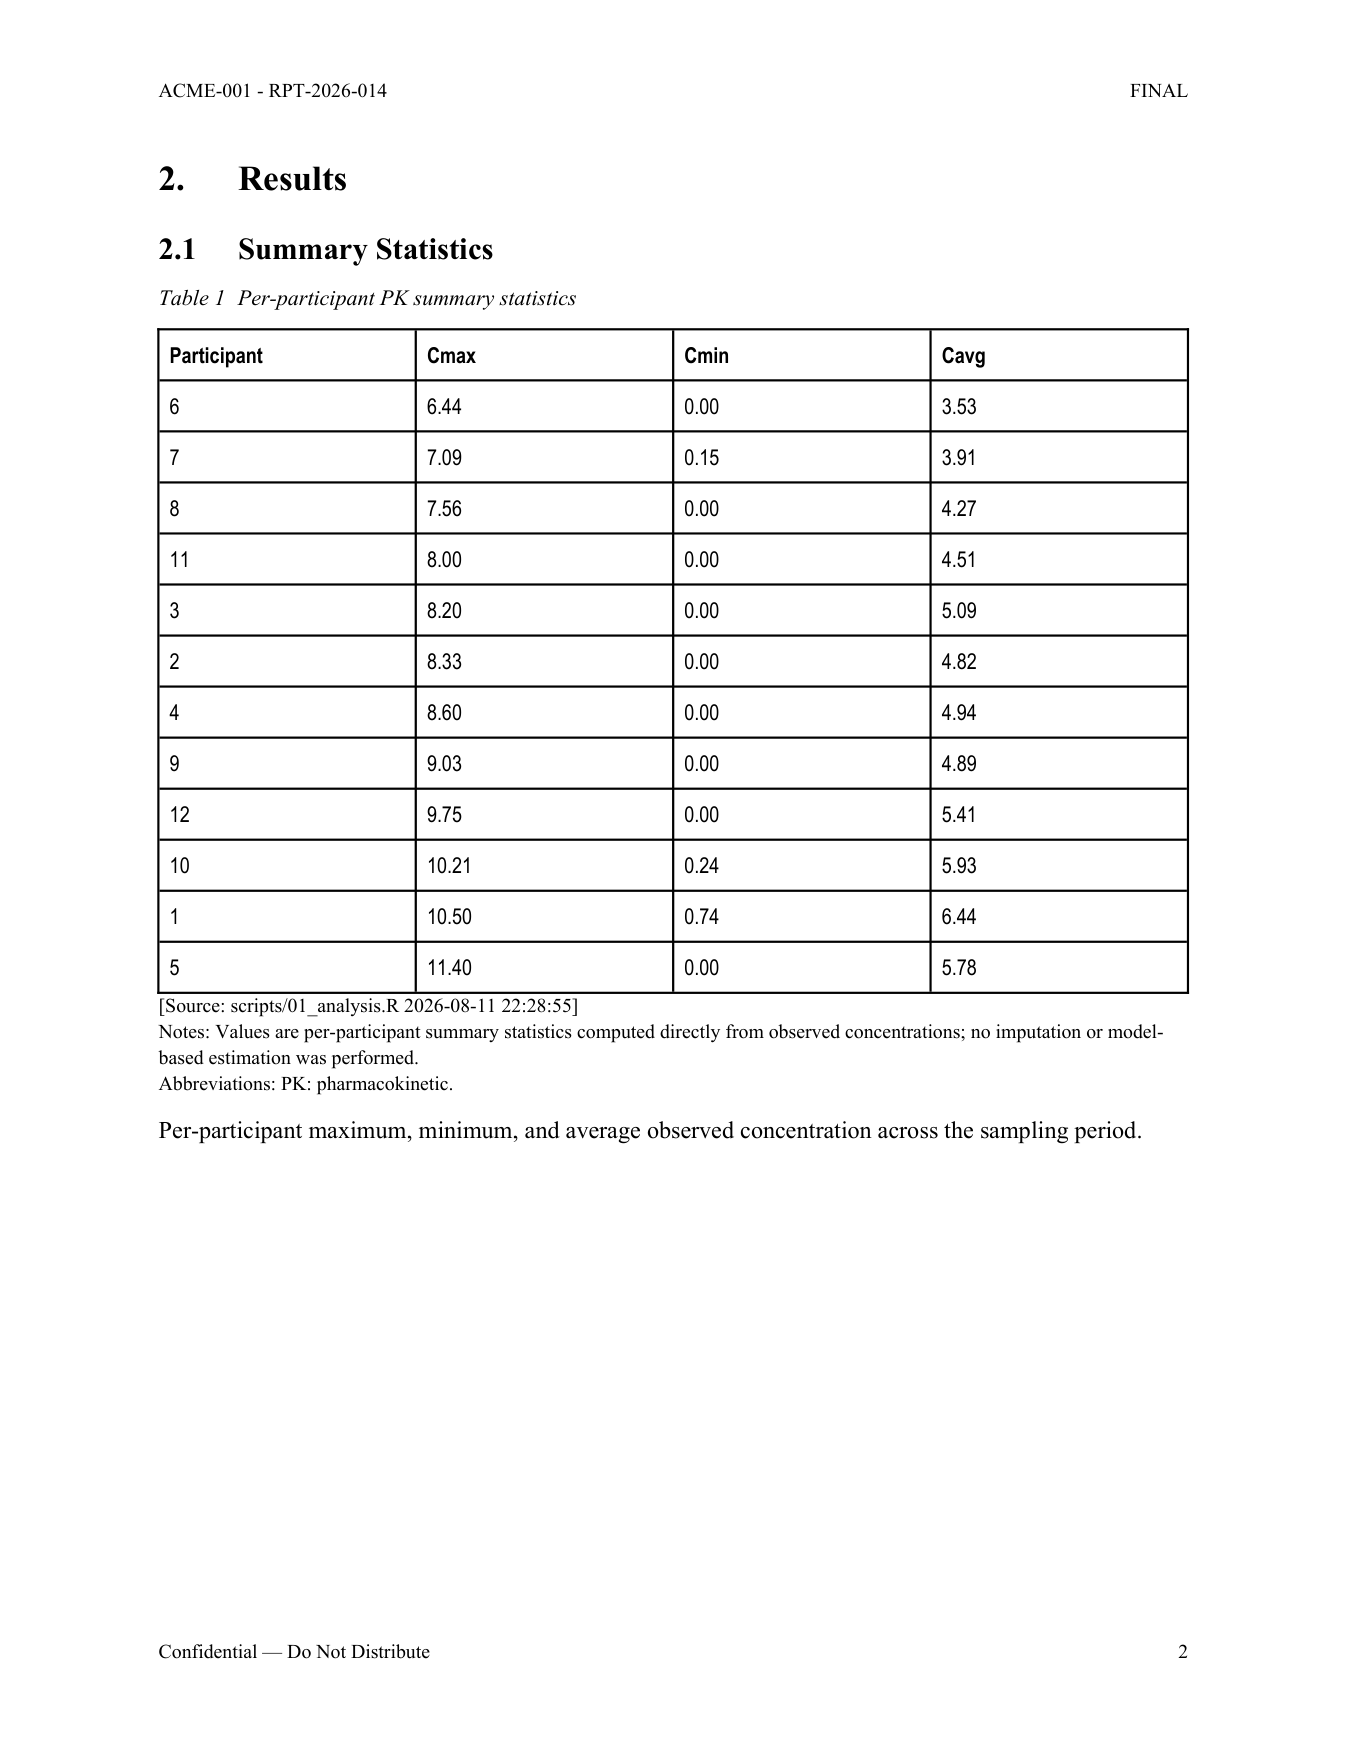
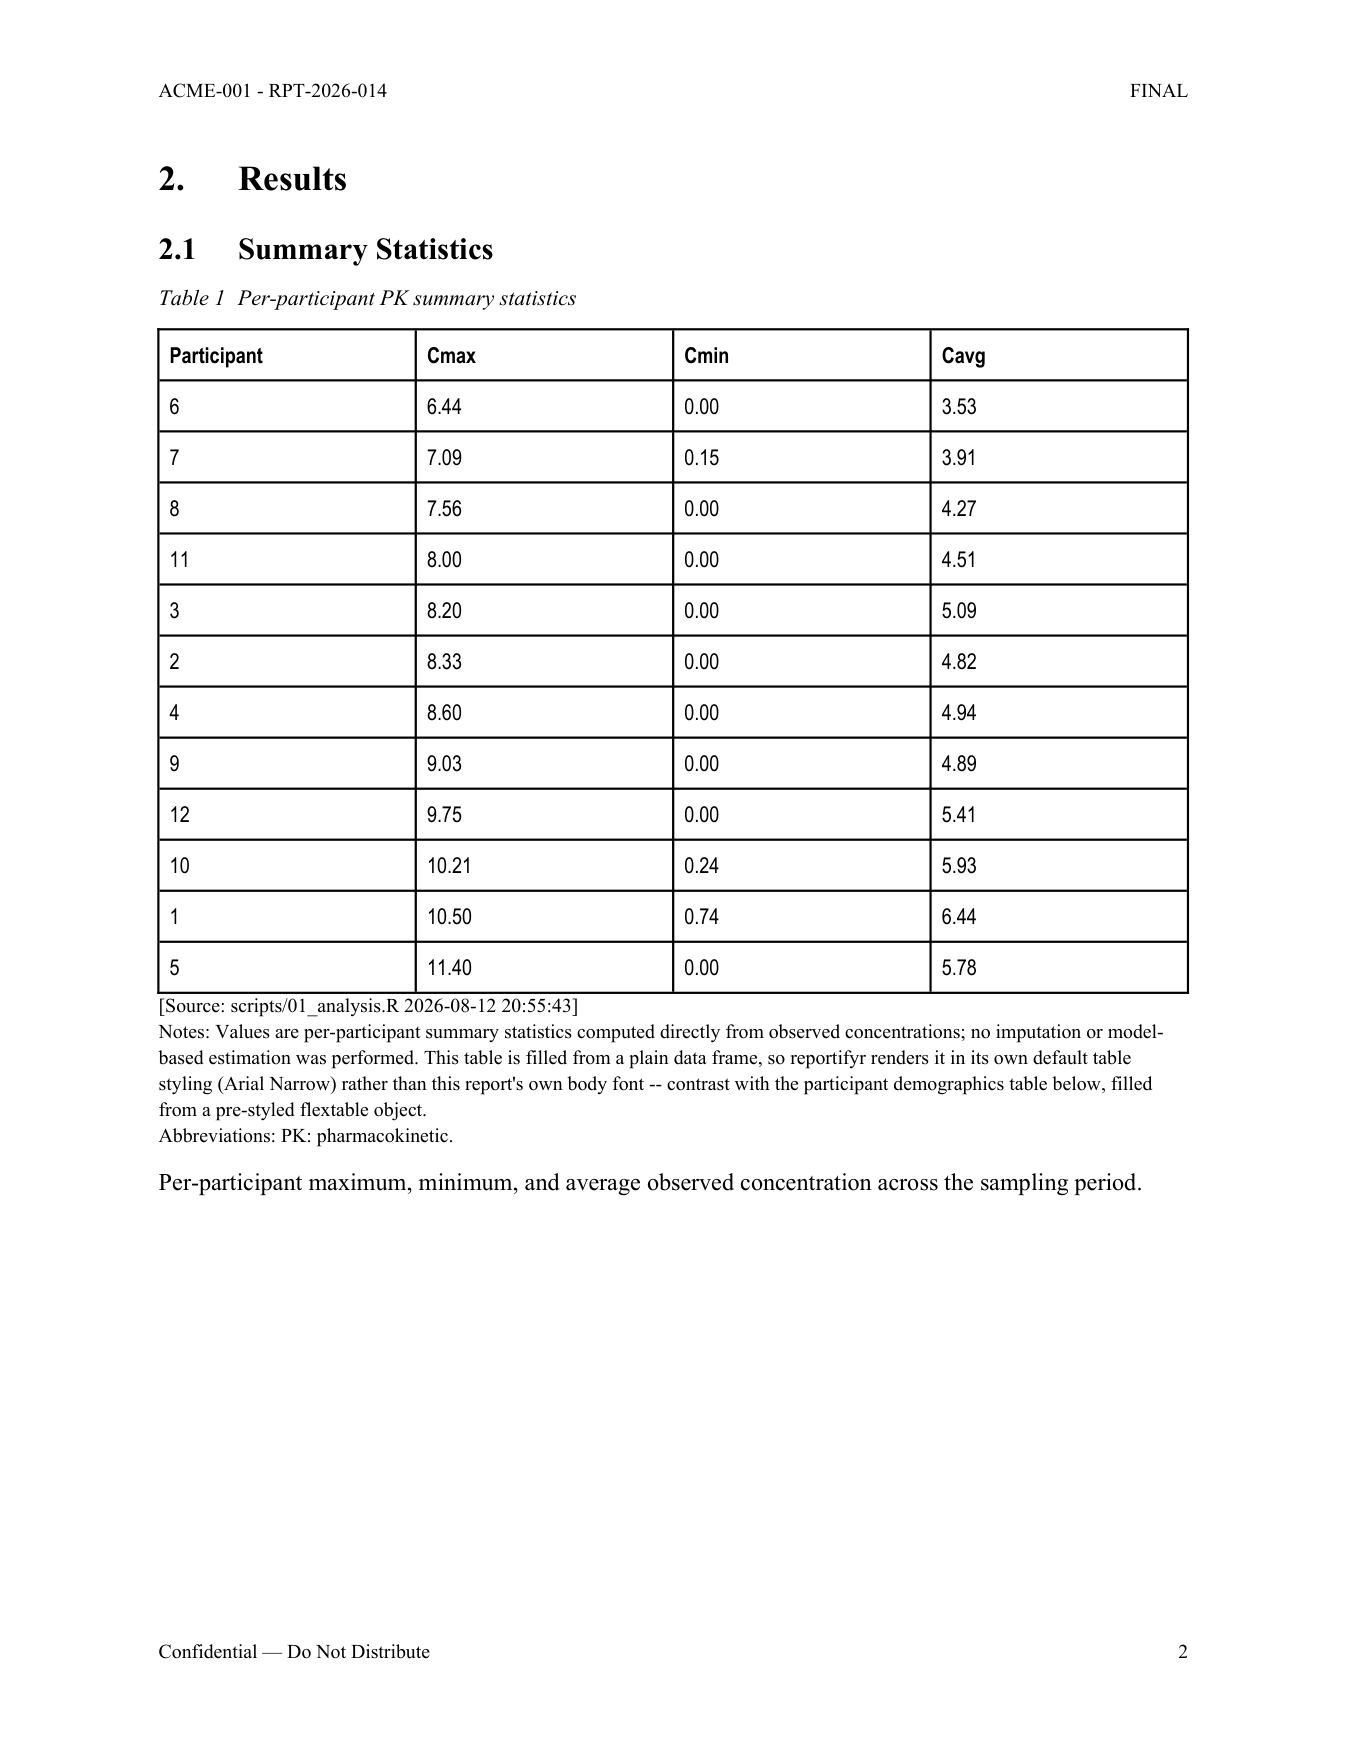
Demo: add a flextable .rds table illustrating reportifyr's table-styling split
pk-summary.csv (a plain data frame) always gets reportifyr's own
hardcoded Arial Narrow table formatting, regardless of the reference-
doc's actual body font; a pre-built, hand-styled flextable object saved
as .rds is instead inserted as-is. The new participant-demographics.rds
table demonstrates the latter, styled to match this report's Times New
Roman -- both tables' rendered Notes footnotes now explain the contrast
directly, and smoke_test.py asserts on the two tables' actual body
fonts. Regenerated docs/ screenshots and GIFs affected by the new
report.qmd section (appendix page shifted, body page re-captured).

Changed region(s): [[0.1247, 0.5886, 0.8419, 0.6816], [0.3742, 0.5577, 0.4053, 0.5886]]

diff --git a/examples/demo-report/smoke_test.py b/examples/demo-report/smoke_test.py
@@ -135,7 +135,7 @@ def main() -> int:
     )
 
     checks.append(("no leftover {rpfy}: magic strings", "{rpfy}:" not in joined))
-    checks.append(("at least 6 tables present (title info + signatures + PK summary + abbreviations; synopsis is plain paragraphs, not a table)", len(document.tables) >= 6))
+    checks.append(("at least 7 tables present (title info + signatures + PK summary + demographics + abbreviations; synopsis is plain paragraphs, not a table)", len(document.tables) >= 7))
 
     # build_template.py's reference-doc sets <w:updateFields w:val="true"/>
     # in settings.xml so Word auto-recalculates every field (TOC, SEQ, REF,
@@ -257,6 +257,48 @@ def main() -> int:
     checks.append(
         ("PK summary table header present", any({"Cmax", "Cmin"}.issubset(set(row)) for row in all_rows))
     )
+    checks.append(
+        (
+            "participant demographics table header present",
+            any({"Weight (kg)", "Dose (mg/kg)"}.issubset(set(row)) for row in all_rows),
+        )
+    )
+
+    # The "style bleed" contrast scripts/01_analysis.R's comment describes:
+    # pk_summary started life as a plain data frame (.csv), so reportifyr's
+    # add_tables() ran its own format_flextable() on it, which hardcodes
+    # Arial Narrow regardless of this doc's actual body font (Times New
+    # Roman, per styling/styles/default.yaml). The demographics table
+    # started life as an already-built `flextable` object (.rds), which
+    # add_tables() inserts as-is instead of reformatting it. Checked here
+    # against the real rendered docx, not just asserted by construction.
+    def _table_with_header_cell(needle: str):
+        for t in document.tables:
+            if t.rows and any(needle in cell.text for cell in t.rows[0].cells):
+                return t
+        return None
+
+    def _first_body_run_font(table) -> str | None:
+        if table is None or len(table.rows) < 2:
+            return None
+        run = table.rows[1].cells[0].paragraphs[0].runs[0]
+        return run.font.name
+
+    pk_table_font = _first_body_run_font(_table_with_header_cell("Cmax"))
+    demographics_table_font = _first_body_run_font(_table_with_header_cell("Weight (kg)"))
+    checks.append(
+        (
+            "PK summary table body renders in reportifyr's own hardcoded Arial Narrow (plain-data-frame table always gets reformatted, regardless of this doc's Times New Roman body font)",
+            pk_table_font == "Arial Narrow",
+        )
+    )
+    checks.append(
+        (
+            "demographics table body renders in its own hand-styled Times New Roman (pre-built flextable .rds is inserted as-is, matching this doc's body font)",
+            demographics_table_font == "Times New Roman",
+        )
+    )
+
     checks.append(("synopsis section rendered", "Synopsis" in joined))
 
     # Front-matter section labels (Synopsis, Table of Contents, List of

diff --git a/scripts/render_doc_screenshots.py b/scripts/render_doc_screenshots.py
@@ -26,7 +26,7 @@ JOBS = [
     ("examples/demo-report/report/final/report-final.docx", 0, "demo-report-title.png"),
     ("examples/demo-report/report/final/report-final.docx", 2, "demo-report-synopsis.png"),
     ("examples/demo-report/report/final/report-final.docx", 8, "demo-report-body.png"),
-    ("examples/demo-report/report/final/report-final.docx", 11, "demo-report-appendix.png"),
+    ("examples/demo-report/report/final/report-final.docx", 12, "demo-report-appendix.png"),
     ("examples/memo-example/report/final/report-final.docx", 0, "memo-example-cover.png"),
     ("examples/memo-example/report/final/report-final.docx", 1, "memo-example-body.png"),
 ]

diff --git a/examples/demo-report/README.md b/examples/demo-report/README.md
@@ -32,10 +32,19 @@ a real `reportifyr` fill pass.
   automatically by `smoke_test.py` (see below) -- if you edit the
   repo-root extension, re-run that script before trusting this demo's
   output.
-- `scripts/01_analysis.R` -- generates `OUTPUTS/tables/pk-summary.csv` and
+- `scripts/01_analysis.R` -- generates `OUTPUTS/tables/pk-summary.csv`,
+  `OUTPUTS/tables/participant-demographics.rds`, and
   `OUTPUTS/figures/conc-time.png` (with reportifyr metadata sidecars) from
   `Theoph`. Already run; outputs are committed so the demo works
-  immediately after a clone. Re-run it if you want to regenerate them.
+  immediately after a clone. Re-run it if you want to regenerate them. The
+  two tables deliberately demonstrate reportifyr's two ways of filling a
+  `{rpfy}:` table magic string: `pk-summary.csv` is a plain data frame,
+  which `reportifyr::add_tables()` always reformats with its own hardcoded
+  Arial Narrow 10pt styling regardless of this report's actual body font;
+  `participant-demographics.rds` is a pre-built, hand-styled `flextable`
+  object (matching this report's Times New Roman body font), which
+  `add_tables()` inserts completely as-is instead. See that script's
+  comment for the full "style bleed" explanation.
 - `report/standard_footnotes.yaml`, `report/config.yaml` -- reportifyr's
   own defaults (via `reportifyr::initialize_report_project()`).
 - `render.R` -- runs the full pipeline via the toolkit's
@@ -96,12 +105,15 @@ python3 smoke_test.py
 First checks `_extensions/quartifyr/` hasn't drifted from the repo-root
 copy (see Layout above), then runs `Rscript render.R --final` for real and
 asserts on the resulting docx: no leftover `{rpfy}:` magic strings, the PK
-summary table and concentration-time figure are actually filled in (not
-placeholders), the title page/status stamp/appendix lettering all
-rendered, `\gls{PK}` resolved through the abbreviations bridge, and the
-bibliography renders (in-text citations resolved, entries present, and
-populated before the appendices rather than after). Skips (exit 0) if
-`Rscript` or `quarto` aren't on `PATH`.
+summary table, participant demographics table, and concentration-time
+figure are actually filled in (not placeholders), the two tables' body
+text renders in their respective fonts (Arial Narrow for the plain-data-
+frame table, Times New Roman for the pre-built flextable -- see Layout
+above), the title page/status stamp/appendix lettering all rendered,
+`\gls{PK}` resolved through the abbreviations bridge, and the bibliography
+renders (in-text citations resolved, entries present, and populated
+before the appendices rather than after). Skips (exit 0) if `Rscript` or
+`quarto` aren't on `PATH`.
 
 ## Why this project has its own `.here` file
 
